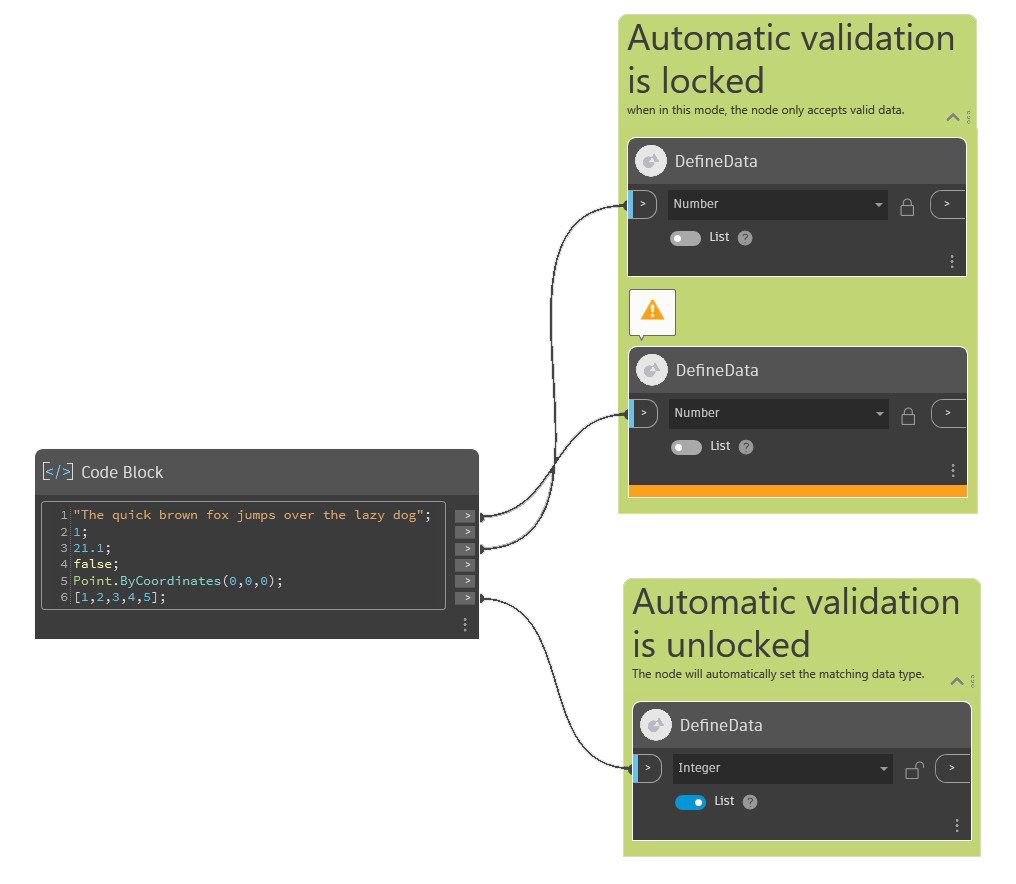
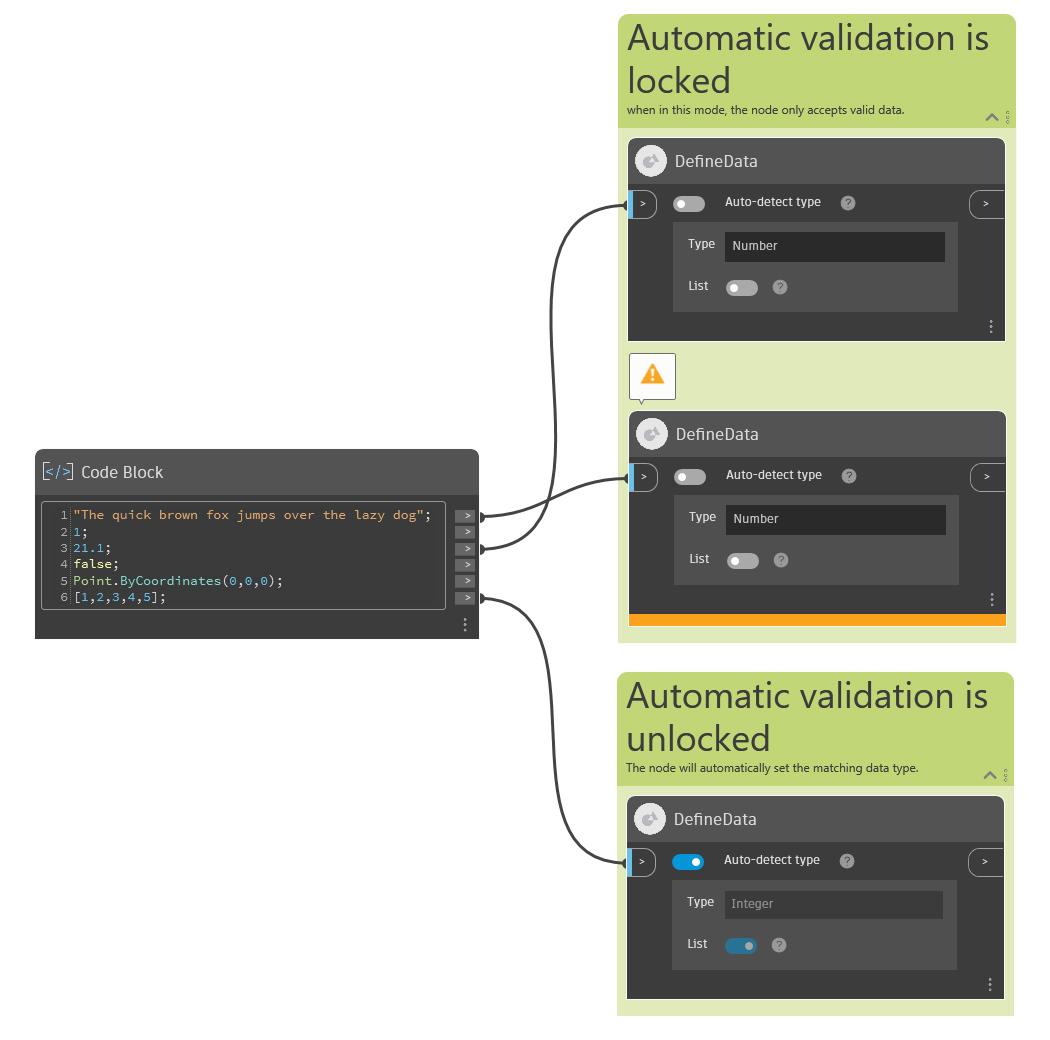
resources
- amended resources

Changed region(s): [[0.0305, 0.0, 0.9764, 0.9774]]

diff --git a/src/Libraries/CoreNodeModelsWpf/Controls/DefineDataControl.xaml b/src/Libraries/CoreNodeModelsWpf/Controls/DefineDataControl.xaml
@@ -47,7 +47,7 @@
                     </Path>
                 </Viewbox>
                 <Canvas.ToolTip>
-                    <ToolTip Content="{x:Static p:Resources.DataInputNodeInformationTooltip}"
+                    <ToolTip Content="{x:Static p:Resources.DataInputAutoDetectTypeTooltip}"
                              Style="{StaticResource GenericToolTipLight}"/>
                 </Canvas.ToolTip>
             </Canvas>

diff --git a/src/Libraries/CoreNodeModelsWpf/NodeViewCustomizations/DefineData.cs b/src/Libraries/CoreNodeModelsWpf/NodeViewCustomizations/DefineData.cs
@@ -139,14 +139,14 @@ namespace CoreNodeModelsWpf.Nodes
                 VerticalAlignment = VerticalAlignment.Top,
                 VerticalContentAlignment = VerticalAlignment.Center,
                 HorizontalAlignment = HorizontalAlignment.Left,
-                MinWidth = 220, // initial value only, will change on enabled/disabled (crops the combobox arrow otherwise)
+                MinWidth = model.IsAutoMode ? 220 :  240, // initial value only, will change on enabled/disabled (crops the combobox arrow otherwise)
                 Height = 30,
                 FontSize = 12,
                 Background = new SolidColorBrush(Color.FromRgb(42, 42, 42)),
                 BorderBrush = Brushes.Transparent,
                 Foreground = new SolidColorBrush(Color.FromRgb(199, 199, 199)),
             };
-
+                
             var selectedItemBinding = new Binding("DisplayValue")
             {
                 Source = model,

diff --git a/src/DynamoCoreWpf/Properties/Resources.Designer.cs b/src/DynamoCoreWpf/Properties/Resources.Designer.cs
@@ -1215,6 +1215,15 @@ namespace Dynamo.Wpf.Properties {
         }
         
         /// <summary>
+        ///   Looks up a localized string similar to Toggle on to allow Define Data to automatically detect the data type of the input node. Toggle off to set the desired data type yourself.
+        /// </summary>
+        public static string DataInputAutoDetectTypeTooltip {
+            get {
+                return ResourceManager.GetString("DataInputAutoDetectTypeTooltip", resourceCulture);
+            }
+        }
+        
+        /// <summary>
         ///   Looks up a localized string similar to List.
         /// </summary>
         public static string DataInputListLabel {

diff --git a/doc/distrib/NodeHelpFiles/CoreNodeModels.DefineData.md b/doc/distrib/NodeHelpFiles/CoreNodeModels.DefineData.md
@@ -1,23 +1,25 @@
 ## In Depth
 
-The Define Data node validates the data type of incoming data. It can be used to ensure local data is of the desired type and is also designed to be used as an input or output node, declaring the type of data a graph expects or provides. The node supports a selection of commonly used Dynamo data types, for example 'String', 'Point', or 'Boolean'. The full list of supported data types is available in the drop-down menu of the node.
+The Define Data node validates the data type of incoming data. It can be used to ensure local data is of the desired type, and it's also designed to be used as an input or output node that declares the type of data a graph expects or provides. The node supports a selection of commonly used Dynamo data types, for example "String", "Point", and "Boolean". The full list of supported data types is available in the node's drop-down menu. The node supports data in the form of a single value or a flat list. Nested lists, dictionaries, and replication are not supported.
 
 ### Behavior
-The node validates the data coming in from the input port based on the setting of the drop-down menu and the **List** toggle (see below for details). If the validation is successful, the output of the node is the same as the input. If the validation is not successful, the node will enter a warning state with a null output.
 
-The node has four inputs:
-- The "**>**" input - Connect to an upstream node to validate the type of its data.
-- The **drop-down** menu - Shows the expected data type. When the form is unlocked, set a data type for validation. When the form is locked, the data type is chosen automatically based on incoming data. Data is valid if its type matches the shown type exactly or if its type is a child of the shown type (e.g. If the drop-down is set to "Curve", objects of type "Rectangle", "Line", etc. are valid).
-- The **List** toggle - When on, the node expects incoming data to be a single flat list containing items of a valid data type (see above). When off, the node expects a single item of a valid data type.
-- The **Lock** toggle - When off/unlocked, the drop-down menu and the **List** toggle controls accept user input to set the type of data expected. When on/locked, the node will validate* the incoming data, disable the controls, and set their value based on the data connected to the node's input port.
+The node validates the data coming in from the input port based on the setting of the Type drop-down menu and the List toggle (see below for details). If the validation is successful, the output of the node is the same as the input. If the validation is not successful, the node will enter a warning state with a null output.
+The node has one input:
+
+-   The "**>**" input - Connect to an upstream node to validate the type of its data.
+    Additionally, the node offers three user controls:
+-   The **Auto-detect type** toggle - When toggled on, the node analyzes the incoming data, and if the data is of a supported type, the node sets the Type and List controls' values based on the type of the incoming data. The Type drop-down menu and the List toggle are disabled and will automatically update based on the input node.
+    When Auto-detect type is toggled off, you can specify a data type by using the Type menu and List toggle. If the incoming data does not match what you've specified, the node will enter a warning state with a null output.
+-   The **Type** drop-down menu - Sets the expected data type. When the control is enabled (**Auto-detect type** toggle is off), set a data type for validation. When the control is disabled (**Auto-detect type** toggle is on), the data type is set automatically based on incoming data. Data is valid if its type matches the shown type exactly or if its type is a child of the shown type (for example, if the Type drop-down is set to "Curve", objects of type "Rectangle", "Line", etc. are valid).
+-   The **List** toggle - When on, the node expects incoming data to be a single flat list containing items of a valid data type (see above). When off, the node expects a single item of a valid data type.
 
 ### Use as an input node
-When set as an input ("Is Input" in the node's context menu) the node can optionally use upstream nodes to set the default value for the input. A run of the graph will cache the Define Data node's value for use when running the graph externally, for example with the Engine Node.
 
----
+## When set as an input ("Is Input" in the node's context menu), the node can optionally use upstream nodes to set the default value for the input. A run of the graph will cache the Define Data node's value for use when running the graph externally, for example with the Engine node.
 
 ## Example File
-In the example below, the first group of "DefineData" nodes have an unlocked UI. The node correctly validates the Number input provided while rejecting the String input. The second group contains a node with locked UI. The node automatically adjusts the drop-down and the **List** toggle to match the input, in this case a list of integers.
+
+In the example below, the first group of "DefineData" nodes have the **Auto-detect type** toggle off. The node correctly validates the Number input provided while rejecting the String input. The second group contains a node with **Auto-detect type** toggled on. The node automatically adjusts the Type drop-down and the List toggle to match the input, in this case a list of integers.
 
 ![Define_Data](./CoreNodeModels.DefineData_img.jpg)
-    
